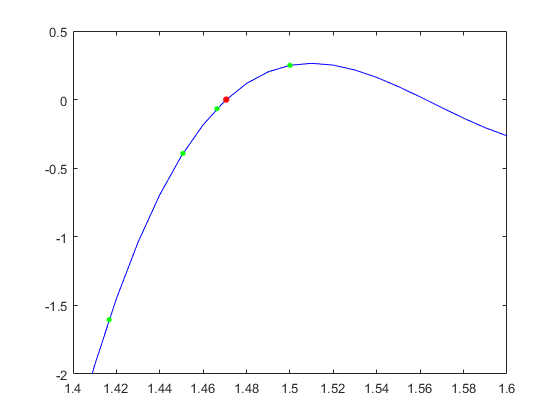
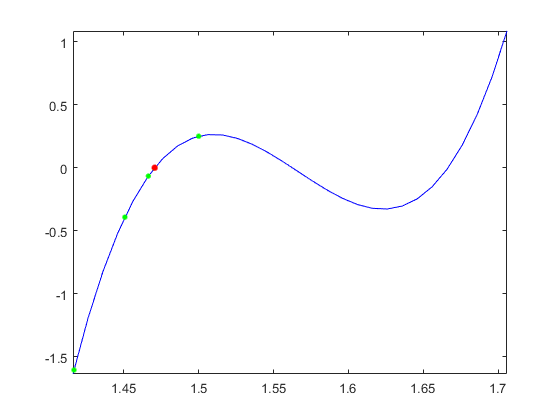
impoved graphs

diff --git a/hw4/prob1d.m b/hw4/prob1d.m
@@ -1,7 +1,8 @@
 
 p = @(x) (816.*x.^3) - (3835.*x.^2) + (6000.*x) - 3125;
 
-t = 1:0.01:2;
+%t = 1:0.01:2;
+t = 1.43:0.01:1.71;
 y = p(t);
 plot(t, y, 'color', 'blue'); hold on;
 
@@ -11,8 +12,8 @@ k=1;
 
 fprintf('X_%i: %3.15f \n', 0, xprev);
 fprintf('X_%i: %3.15f \n', 1, x);
-plot(x, p(x), '.', 'color', 'green', 'MarkerSize', 12);
-plot(xprev, p(xprev), '.', 'color', 'green', 'MarkerSize', 12);
+%plot(x, p(x), '.', 'color', 'green', 'MarkerSize', 12);
+%plot(xprev, p(xprev), '.', 'color', 'green', 'MarkerSize', 12);
 %while abs(x-xprev) > eps*abs(x)
 while abs(p(x)) > eps
     sn = (p(x)-p(xprev))/(x-xprev);
@@ -26,3 +27,6 @@ while abs(p(x)) > eps
 end
 
 plot(x, p(x), '.', 'color', 'red', 'MarkerSize', 15);
+axis tight;
+
+hold off;

diff --git a/hw4/prob1c.m b/hw4/prob1c.m
@@ -1,8 +1,8 @@
-format LONG;
+
 p = @(x) (816.*x.^3) - (3835.*x.^2) + (6000.*x) - 3125;
 p_prime = @(x) (2448.*x.^2) - (7670.*x) + 6000;
 
-t = 1.35:0.01:1.6;
+t = 1.416:0.01:1.71;
 y = p(t);
 plot(t, y, 'color', 'blue'); hold on;
 
@@ -20,4 +20,6 @@ while abs(x - xprev) > eps*abs(x)
 end
 
 plot(x, p(x), '.', 'color', 'red', 'MarkerSize', 15);
-ylim([-2, 0.5]);
+axis tight;
+
+hold off;

diff --git a/hw4/prob1e.m b/hw4/prob1e.m
@@ -1,7 +1,7 @@
 
 p = @(x) (816.*x.^3) - (3835.*x.^2) + (6000.*x) - 3125;
 
-t = 1:0.01:2;
+t = 1.25:0.01:1.71;
 y = p(t);
 plot(t, y, 'color', 'blue'); hold on;
 
@@ -23,3 +23,5 @@ while b-a > eps
 end
 
 plot(x, p(x), '.', 'color', 'red', 'MarkerSize', 15);
+axis tight;
+hold off;

diff --git a/hw4/prob1b.m b/hw4/prob1b.m
@@ -9,3 +9,5 @@ x_zero = [25/17, 25/16, 5/3];
 plot(x, y, 'color', 'blue'); hold on;
 plot(x_zero, p(x_zero), '.', 'color', 'red', 'MarkerSize', 15);
 axis tight;
+
+hold off;
